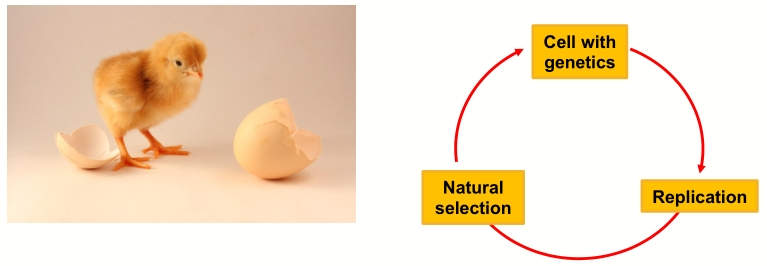
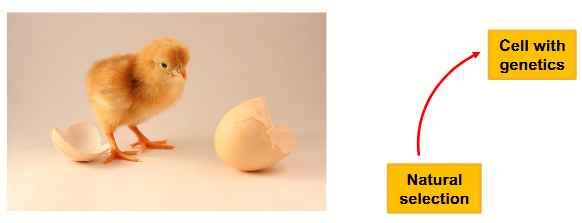
Completed Lecture 4.7.2

diff --git a/origins/origins4.tex b/origins/origins4.tex
@@ -2,13 +2,20 @@
 \usepackage{caption,subcaption,graphicx,float,url,amsmath,amssymb,tocloft}
 \usepackage[hidelinks]{hyperref}
 \usepackage[toc,acronym,nonumberlist]{glossaries}
-
+\usepackage{titling}
 \setacronymstyle{long-short}
 \usepackage{glossaries-extra}
 \graphicspath{{figs/}}
 \setlength{\cftsubsecindent}{0em}
 \setlength{\cftsecnumwidth}{3em}
 \setlength{\cftsubsecnumwidth}{3em} 
+\pretitle{
+	\begin{center}
+		\includegraphics[width=6cm]{KanjiLife}\\
+		
+	}
+\posttitle{\end{center}}
+
 %opening
 \title{Notes from Origins of Life\\Week4: Early Life}
 \author{Simon Crase (compiler)\\simon@greenweaves.nz}
@@ -1152,8 +1159,13 @@ See also \cite{eigen1971selforganization,orgel2004prebiotic,kun2005real,ratcliff
 
 \subsection[A Recipe for Adaptation]{A Recipe for Adaptation-- David Baum}
 
-Since the capacity for ]Adaptive Evolution is central to almost any definition of life, we need to understand what is the simplest system capable of undergoing adaptive evolution. Life is too complex to explain without an adaptive
-process--Figure \ref{fig:LifeTooComplex}\cite{hoyle1983intelligent}. A cell is too complicated to  just emerge, so we need to think about how adaptation could start working on something simpler than a modern cell.
+Since the capacity for Adaptive Evolution is central to almost any definition of life, we need to understand what is the simplest system capable of undergoing adaptive evolution. Life is too complex to explain without an adaptive
+process\cite{hoyle1983intelligent}--Figure \ref{fig:LifeTooComplex}. A cell is too complicated to  just emerge, so we need to think about:
+
+\begin{itemize}
+	\item  how does adaptation work?
+	\item could start working on something simpler than a modern cell?
+\end{itemize}.
 
 \begin{figure}[H]
 	\caption{Life is too complex to explain without an adaptive
@@ -1161,18 +1173,32 @@ process--Figure \ref{fig:LifeTooComplex}\cite{hoyle1983intelligent}. A cell is t
 	\includegraphics[width=0.9\textwidth]{LifeTooComplex}
 \end{figure}
 
-Figure \ref{fig:ReplicationMutationSelection} is a reminder of the way Darwinian Evolution works. Favoured variant \textit{could} be more complex. But, if you need cells and a genetic system to evolve adaptively it is hard to see how life can start--Figure \ref{fig:ChickenEgg}.
+Figure \ref{fig:ReplicationMutationSelection} is a reminder of the way Darwinian Evolution works. Favoured variant \textit{could} be more complex, but it doesn't need to be. Natural selection \emph{can} yield greater complexity, but it doesn't have to.
 \begin{figure}[H]
-	\caption{Darwinian evolution: Replication-Mutation- Selection}\label{fig:ReplicationMutationSelection}
+	\caption[Darwinian evolution: Replication--Mutation--Selection]{Darwinian evolution: Replication--Mutation--Selection. We start with a bacterium, which gives rise to two daughter cells. The DNA which it gives to the daughters controls the features of those cells. The DNA at the top left might have a mutation--red dot--which allows it to function differently, which \emph{might} allow its descendants to outcompete those that weren't mutated.}\label{fig:ReplicationMutationSelection}
 	\includegraphics[width=0.9\textwidth]{ReplicationMutationSelection}
 \end{figure}
 
+To get to the first cell we need some process of natural selection that could allow it to complexify.
+ But, if you need cells and a genetic system to evolve adaptively it is hard to see how life can start--Figure \ref{fig:ChickenEgg}.
 \begin{figure}[H]
 	\caption[If you need cells and a genetic system to evolve adaptively...]{If you need cells and a genetic system to evolve adaptively it is hard to see how life can start}\label{fig:ChickenEgg}
-	\includegraphics[width=0.9\textwidth]{ChickenEgg}
+	\begin{subfigure}[t]{\textwidth}
+		\caption{To get to the first cell we need some process of natural selection that could allow it to complexify}
+		\includegraphics[width=0.9\textwidth]{ChickenEgg}
+	\end{subfigure}
+	\begin{subfigure}[t]{0.45\textwidth}
+		\caption{What is required for Natural Selection?--Replication.}
+		\includegraphics[width=0.9\textwidth]{ChickenEgg1}
+	\end{subfigure}
+	\;\;\;\;\;\;
+	\begin{subfigure}[t]{0.45\textwidth}
+		\caption{The only process of replication that we know about today, that cells use, is a very complicated process.}
+		\includegraphics[width=0.9\textwidth]{ChickenEgg2}
+	\end{subfigure}
 \end{figure}
 
-There are a couple of ideas:
+Scientists have figured out a few ways out of this.
 
 \begin{itemize}
 	\item Cells could pass on their identity by passing on a
@@ -1181,46 +1207,60 @@ There are a couple of ideas:
 \end{itemize}
 
 \begin{figure}[H]
-	\caption{Cells without genes}\label{fig:CellWithoutGenes}
+	\caption[Cells without genes]{Cells without genes: cells could pass on their identity by passing on a dynamically maintained chemical state }\label{fig:CellWithoutGenes}
 	\includegraphics[width=0.9\textwidth]{CellWithoutGenes}
 \end{figure}
 
 \begin{figure}[H]
-	\caption{Genes without cells}\label{fig:GenesWithoutCells}
+	\caption[Genes without cells]{Genes without cells: Self-replicating molecules could give rise to cells}\label{fig:GenesWithoutCells}
 	\includegraphics[width=0.9\textwidth]{GenesWithoutCells}
 \end{figure}
 
-Is this still too complex? Dividing protocells and self-replicating RNA could
-be too complex to arise spontaneously. Nuclotides not likely to be sitting around in high abundance.
+Many people, including David Baum, are concerned that this is still too complex. The simplest \gls{gls:protocell} capable of dividing, and enclosing this dynamical system would still have to be pretty complicated.
+\begin{itemize}
+	\item It would have to arise spontaneously without any prior adaptive process;
+	\item it would need to be able to grow, regulate the transport of metabolites into and out of the cell;
+	\item it would have to be able to divide
+\end{itemize}
+ That seems unlikely to arise spontaneously. A single \gls{gls:RNA} molecule is unlikely to arise spontaneously. Nucleotides are not likely to be sitting around in the environment in high abundance.
 
-One possibility is no genetics and no cells. Adaptive material is possible if material in some sort of Spatial Structure--Figure \ref{fig:WangWang}\cite{wang2015evolution}.
+So some scientists have begun looking around for something simpler. 
+One possibility is no genetics and no cells. Adaptive material is possible if material in some sort of spatial structure--Figure \ref{fig:WangWang}.
 
 \begin{figure}[H]
-	\caption{Spatial structure does not require bounded cells}\label{fig:WangWang}
+	\caption[Spatial structure does not require bounded cells]{Spatial structure does not require bounded cells\cite{wang2015evolution}}\label{fig:WangWang}
 	\includegraphics[width=0.9\textwidth]{WangWang}
 \end{figure}
 
-Perhaps the first adaptive evolving systems were flat living systems--Figure \ref{fig:Baum2018}\cite{baum2018origin}--slime-like things that lived on surfaces, had a metabolism, maintained a dynamics state, that could grow and evolve adaptively, and later give rise to cells. A cell can be seen as a very good way for a surface dweller to get to another surface--Figure \ref{fig:Baum2018}. One can imagine a situation in which, in an ancient ocean, there were minimal surfaces coated with life-like systems that could grow, spread, and be subjected to selection.
+Perhaps the first adaptive evolving systems were flat living systems--Figure \ref{fig:Baum2018}--slime-like things that lived on surfaces, had a metabolism, maintained a dynamics state, that could grow and evolve adaptively, and later give rise to cells. A cell can be seen as a very good way for a surface dweller to get to another surface--Figure \ref{fig:Baum2018}. One can imagine a situation in which, in an ancient ocean, there were minimal surfaces coated with life-like systems that could grow, spread, and be subjected to selection.
 
 \begin{figure}[H]
-	\caption{Spatial structure does not require bounded cells}\label{fig:Baum2018}
+	\caption[A very good way for a surface dweller to get to another surface]{ A cell can be seen as a very good way for a surface dweller to get to another surface\cite{baum2018origin}}\label{fig:Baum2018}
 	\includegraphics[width=0.9\textwidth]{Baum2018}
 \end{figure}
 
-Cells could have started as a transport mechanism--Figure \ref{fig:Baum2015}\cite{baum2015selection}--which enable certain types to spread.
+Cells could have started as a transport mechanism--Figure \ref{fig:Baum2015}--which enable certain types to spread.
 
 \begin{figure}[H]
-	\caption{Adaptive evolution started before cells or genetics}\label{fig:Baum2015}
+	\caption[Cells could have started as a transport mechanism]{Adaptive evolution started before cells or genetics: cells could have started as a transport mechanism\cite{baum2015selection}}\label{fig:Baum2015}
 	\includegraphics[width=0.9\textwidth]{Baum2015}
 \end{figure}
 
-To summarize, Evolutionary theory plays a central role--Figure \ref{fig:Baum2018a}\cite{baum2018origin}. It seems that cells with genetics are too complex, and we need a theory of simpler evolving progenitors.
+To summarize:
+\begin{itemize}
+	\item Evolutionary theory plays a central role--Figure \ref{fig:Baum2018a};
+	\item  Evolutionary theory is a constantly changing field, and our models have become more and more sophisticated;
+	\item we now appreciate that a view of Evolution that requires cells and genetic encoding is perhaps too stringent;
+	\item it is becoming clear that in the origin of life field will come from appreciating the fact that very simple systems, much simpler than we are used to thinking about, could be the first evolving progenitors of life as we Know it.
+\end{itemize}
+
 
 \begin{figure}[H]
-	\caption{Evolutionary theory plays a central role}\label{fig:Baum2018a}
+	\caption[Evolutionary theory plays a central role]{Evolutionary theory plays a central role\cite{baum2018origin}}\label{fig:Baum2018a}
 	\includegraphics[width=0.9\textwidth]{Baum2018a}
 \end{figure}
 
+References: \cite{hoyle1983intelligent,wang2015evolution,baum2018origin,baum2015selection}.
 
 \subsection[Chance \& Change]{Chance \& Change--Andrew Rominger}
 
